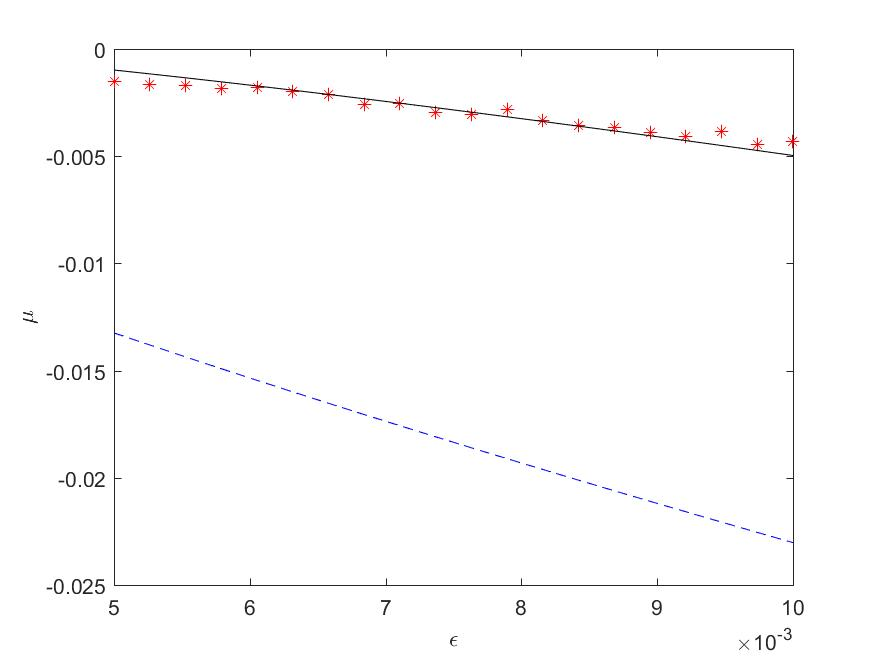
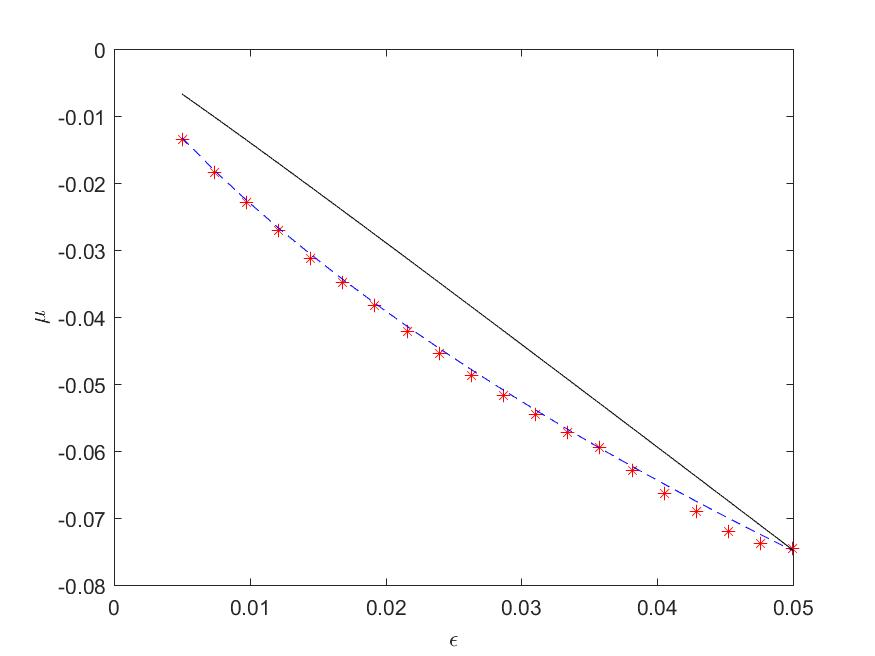
Better 1D slow+osc plots

diff --git a/Complete/OneD_matlab/Slow_Osc/lambda_compare.m b/Complete/OneD_matlab/Slow_Osc/lambda_compare.m
@@ -1,26 +1,26 @@
-% Create an epsilon comparison plot an lambda comparison plot
+% Create an epsilon comparison plot and a lambda comparison plot
 
-% Load function folder
+% Load function folder and set working directory
 addpath('C:\Users\codyg\Desktop\MSc_Thesis\Cody\trunk\Complete\Functions')
+cd('C:\Users\codyg\Desktop\MSc_Thesis\Cody\trunk\Complete\Graphs\OneD_slowosc')
 
-%Hyperparameter
+%Hyperparameters
+n=30;
 criteria=.2;
+A = 1;
 
 % This will compare lambda over a single choice in epsilon
-n=20;
-
 lambdavec = linspace(.5,1.5,n);
 
 truetipvec = zeros(1,n);
 estimatedtipvec = zeros(1,n);
 slowtipvec = zeros(1,n);
+eps = .01;
 
 for i = 1:length(lambdavec)
 %Initial values and set up
-eps = .01;
 lambda = lambdavec(i);
 Omega = eps^(-lambda);
-A = 1;
 
 mudel = eps * (-2.33811);
 muosc = 4 * abs(A)/(pi * Omega);
@@ -33,27 +33,33 @@ time = abs(stop - start)/eps;
 muInit = start;
 yInit = 1-sqrt(1 + muInit);
 
-yDE = @(t, y, mu)(-mu + 2 * abs(y)-y * abs(y) + A * sin(Omega*t));
+yDE = @(t, y, mu)(-mu + 2 * abs(y)-y * abs(y) + A * sin(Omega * t));
 muDE = @(t, y, mu)(-eps);
 
 %Numerical Solution
 [~, y, mu] = RK2sys(yDE, muDE, yInit, muInit, 0, time, h);
 
-%I use the solution passing epsilon as tipping here.
 %Comparison
 truetipvec(i) = mu(find(y < criteria, 1, 'last'));
 estimatedtipvec(i) = muosc + mudel * (pi * B/2)^(1/3);
 slowtipvec(i) = eps*log(eps)/2;
 end
 
+%Check to see minimum lambda holds
+minlambda = 1+3/2*log(2.33811*(pi/2)^(4/3)/(6*A^(2/3)))/log(eps);
+miny = min(truetipvec);
+maxy = max(truetipvec);
+yvec = linspace(miny,maxy,50);
+xvec = minlambda*ones(1,50);
+
 figure(1)
 plot(lambdavec, truetipvec, 'r*')
 hold on
 plot(lambdavec, estimatedtipvec, 'k')
 plot(lambdavec, slowtipvec, 'b--')
+plot(xvec,yvec,'r')
 xlabel('\lambda'); ylabel('\mu');
 
-cd('C:\Users\codyg\Desktop\MSc_Thesis\Cody\trunk\Complete\Graphs\OneD_slowosc')
 fileID = fopen('oneD_slowosc_lambdacomp_information.txt','w');
 fprintf(fileID,'epsilon=%f\n',lambda);
 fprintf(fileID,'A=%f\n',A);
@@ -62,57 +68,59 @@ fclose(fileID);
 print('-f1','oneD_slowosc_lambdacomp','-djpeg')
 
 % This will compare epsilon over a single choice in lambda
-n=20;
-
-epsvec = linspace(.005,.01,n);
-
+epsvec = linspace(.005,.02,n);
 truetipvec = zeros(1,n);
 estimatedtipvec = zeros(1,n);
 slowtipvec = zeros(1,n);
 
-for i = 1:length(epsvec)
-%Initial values and set up
-eps = epsvec(i);
-lambda = .8;
-Omega = eps^(-lambda);
-A = 1;
+%Set up for an example of each case
+lambdavec = [.8, 1.3];
+delete('oneD_slowosc_epscomp_information.txt')
+for k=2:3
+    lambda = lambdavec(k-1);
+    
+    for i = 1:length(epsvec)
+        %Initial values and set up
+        eps = epsvec(i);
+        Omega = eps^(-lambda);
 
-mudel = eps * (-2.33811);
-muosc = 4 * abs(A)/(pi * Omega);
-B = eps^(lambda-1) * abs(A);
+        mudel = eps * (-2.33811);
+        muosc = 4 * abs(A)/(pi * Omega);
+        B = eps^(lambda-1) * abs(A);
 
-%Numerics
-h = min(.01, 2 * pi/(10 * Omega));
-start = 1.5; stop = -.5;
-time = abs(stop - start)/eps;
-muInit = start;
-yInit = 1 - sqrt(1 + muInit);
+        %Numerics
+        h = min(.01, 2 * pi/(10 * Omega));
+        start = 1.5; stop = -.5;
+        time = abs(stop - start)/eps;
+        muInit = start;
+        yInit = 1 - sqrt(1 + muInit);
+        yDE = @(t, y, mu)(-mu + 2 * abs(y)-y * abs(y) + A * sin(Omega * t));
+        muDE = @(t, y, mu)(-eps);
 
-yDE = @(t, y, mu)(-mu + 2 * abs(y)-y * abs(y) + A * sin(Omega*t));
-muDE = @(t, y, mu)(-eps);
+        %Numerical Solution
+        [~, y, mu] = RK2sys(yDE, muDE, yInit, muInit, 0, time, h);
+        
+        %Comparison
+        truetipvec(i) = mu(find(y < criteria, 1, 'last'));
+        estimatedtipvec(i) = muosc + mudel * (pi * B/2)^(1/3);
+        slowtipvec(i) = eps * log(eps)/2;
+    end
+    
+    fileID = fopen('oneD_slowosc_epscomp_information.txt','a');
+    fprintf(fileID,'Case= %f\n',k);
+    fprintf(fileID,'lambda=%f\n',lambda);
+    fprintf(fileID,'A=%f\n',A);
+    fprintf(fileID,'tipping criteria=%f\n \n',criteria);
+    fclose(fileID);
 
-%Numerical Solution
-[~, y, mu] = RK2sys(yDE, muDE, yInit, muInit, 0, time, h);
-
-%I use the solution passing epsilon as tipping here.
-%Comparison
-truetipvec(i) = mu(find(y < criteria, 1, 'last'));
-estimatedtipvec(i) = muosc + mudel * (pi * B/2)^(1/3);
-slowtipvec(i) = eps * log(eps)/2;
+    figure(k)
+    plot(epsvec, truetipvec, 'r*')
+    hold on
+    plot(epsvec, estimatedtipvec, 'k')
+    plot(epsvec, slowtipvec, 'b--')
+    xlabel('\epsilon'); ylabel('\mu')
 end
 
-figure(2)
-plot(epsvec, truetipvec, 'r*')
-hold on
-plot(epsvec, estimatedtipvec, 'k')
-plot(epsvec, slowtipvec, 'b--')
-xlabel('\epsilon'); ylabel('\mu')
-
-cd('C:\Users\codyg\Desktop\MSc_Thesis\Cody\trunk\Complete\Graphs\OneD_slowosc')
-fileID = fopen('oneD_slowosc_epscomp_information.txt','w');
-fprintf(fileID,'lambda=%f\n',lambda);
-fprintf(fileID,'A=%f\n',A);
-fprintf(fileID,'tipping criteria=%f\n',criteria);
-fclose(fileID);
-print('-f2','oneD_slowosc_epscomp','-djpeg')
-
+ 
+    print('-f2', 'oneD_slowosc_epscomp_case2', '-djpeg')
+    print('-f3', 'oneD_slowosc_epscomp_case3', '-djpeg')
